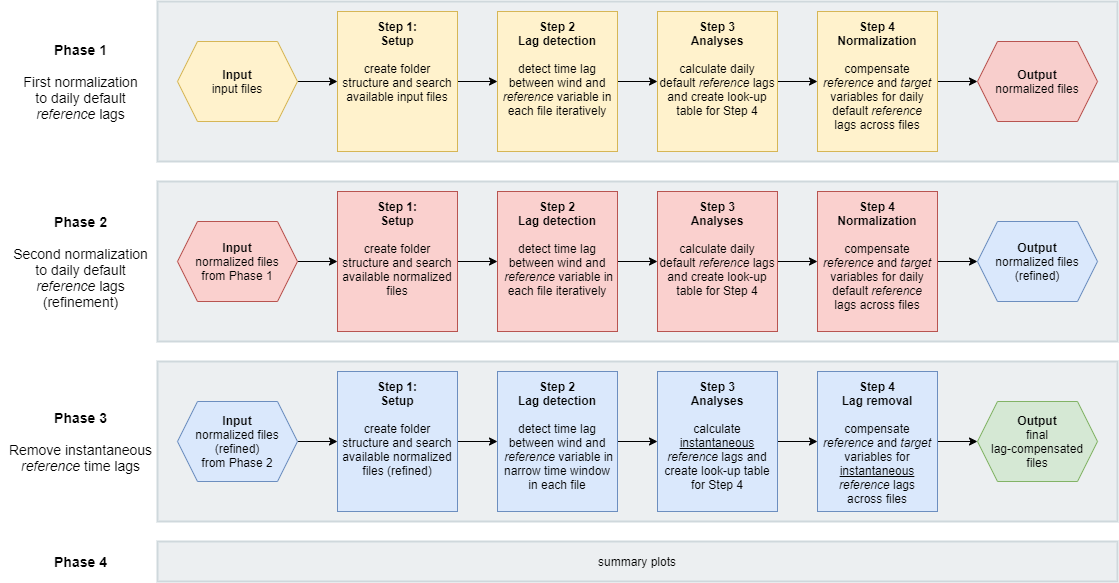
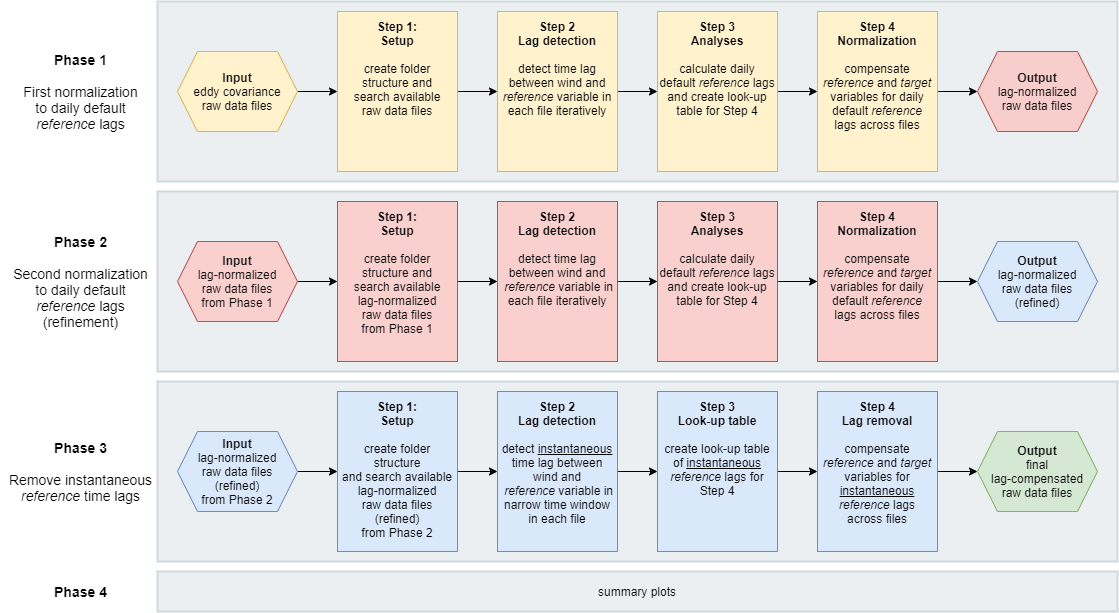
Updated JOSS paper and README descriptions

diff --git a/dyco/dyco.py b/dyco/dyco.py
@@ -485,32 +485,9 @@ def main(args):
                            target_lag=args.targetlag,
                            del_previous_results=args.delprevresults)
 
-    # # Example with full arguments
-    # DynamicLagCompensation(
-    #     var_reference='w_ms-1_rot_turb',  # Reference signal
-    #     var_lagged='co2_ppb_qcl_turb',  # Lagged signal
-    #     var_target=['co2_ppb_qcl_turb', 'n2o_ppb_qcl', 'ch4_ppb_qcl'],  # Target columns
-    #     indir=Path('L:/Dropbox/luhk_work/programming/DYCO_Dynamic_Lag_Compensation/example/input_data'),
-    #     outdir=Path('L:/Dropbox/luhk_work/programming/DYCO_Dynamic_Lag_Compensation/example/output'),
-    #     fnm_date_format='%Y%m%d%H%M%S',  # Date format in filename
-    #     fnm_pattern='2016*.csv',  # Filename pattern for file search, accepts regex
-    #     # dat_recs_timestamp_format='%Y-%m-%d %H:%M:%S.%f',  # Timestamp format for each row record, will be created if False
-    #     dat_recs_nominal_timeres=0.05,  # Nominal (expected) time resolution, one record every x seconds
-    #     files_how_many=False,  # Limit number of files to use
-    #     file_generation_res='30T',  # One file generated every 30 minutes
-    #     file_duration='30T',  # Duration of one data file is 30 minutes
-    #     lgs_num_iter=2,  # Number of lag search iterations in Phase 1 and 2 (Phase 3 is only 1 iteration)
-    #     lgs_winsize=1000,  # Initial window size +/-, given as number of records, used in iteration 1
-    #     lgs_hist_remove_fringe_bins=True,  # Remove fringe bins in histogram of found lag times for winsize adjustments
-    #     lgs_hist_perc_thres=0.9,  # Cumulative % threshold in histogram of found lag times, expand bins around peak
-    #     lgs_segment_dur='30T',  # Segment duration, e.g. calc lag for 10min segments
-    #     del_previous_results=True,  # Danger zone! True deletes all previous output in outdir
-    #     target_lag=0)  # Normalize lag time for *var_target* to target_lag, in records
-
 
 if __name__ == '__main__':
     args = cli.get_args()
     args = cli.validate_args(args)
     # print(args)
     main(args)
-    # main(None)

diff --git a/example/example.py b/example/example.py
@@ -11,24 +11,24 @@ https://github.com/holukas/dyco/wiki/Usage
 
 import os
 
-cli = 'python L:\Dropbox\luhk_work\programming\DYCO_Dynamic_Lag_Compensation\dyco\dyco.py ' \
-      'w_ms-1_rot_turb co2_ppb_qcl_turb ' \
-      'co2_ppb_qcl_turb n2o_ppb_qcl ch4_ppb_qcl ' \
-      '-i L:\Dropbox\luhk_work\programming\DYCO_Dynamic_Lag_Compensation\example\input_data ' \
-      '-o L:\Dropbox\luhk_work\programming\DYCO_Dynamic_Lag_Compensation\example\output ' \
-      '-fnd %Y%m%d%H%M%S ' \
-      '-fnp *.csv ' \
-      '-flim 0 ' \
-      '-fgr 30T ' \
-      '-fdur 30T ' \
-      '-dtf "%Y-%m-%d %H:%M:%S.%f" ' \
-      '-dres 0.05 ' \
-      '-lss 30T ' \
-      '-lsw 1000 ' \
-      '-lsi 3 ' \
-      '-lsf 1 ' \
-      '-lsp 0.9 ' \
-      '-lt 0 ' \
-      '-del 0'
+cli = r'python L:\Dropbox\luhk_work\programming\DYCO_Dynamic_Lag_Compensation\dyco\dyco.py ' \
+      r'w_ms-1_rot_turb co2_ppb_qcl_turb ' \
+      r'co2_ppb_qcl_turb n2o_ppb_qcl ch4_ppb_qcl ' \
+      r'-i A:\FLUXES\CH-DAV\0___ms_CH-DAV_non-CO2\tests_dynamic_lag\JOSS_paper\1_FISP_output\splits ' \
+      r'-o A:\FLUXES\CH-DAV\0___ms_CH-DAV_non-CO2\tests_dynamic_lag\JOSS_paper\2_DYCO_output_2_noTimestampInPhase3 ' \
+      r'-fnd %Y%m%d%H%M%S ' \
+      r'-fnp *.csv ' \
+      r'-flim 0 ' \
+      r'-fgr 30T ' \
+      r'-fdur 30T ' \
+      r'-dtf "%Y-%m-%d %H:%M:%S.%f" ' \
+      r'-dres 0.05 ' \
+      r'-lss 30T ' \
+      r'-lsw 1000 ' \
+      r'-lsi 3 ' \
+      r'-lsf 1 ' \
+      r'-lsp 0.9 ' \
+      r'-lt 0 ' \
+      r'-del 0'
 print(cli)
 os.system(cli)

diff --git a/dyco/correction.py b/dyco/correction.py
@@ -112,10 +112,18 @@ class RemoveLags:
                 data_df = self.shift_var_target(df=data_df,
                                                 shift=shift_correction)
 
-                self.save_dyco_files(outdir=self.outdirs[f'{self.phase}-7_{self.phase_files}_normalized'],
-                                     original_filename=file_info_row['filename'],
-                                     df=data_df,
-                                     export_timestamp=True)
+                if (self.phase == 1) | (self.phase == 2):
+                    # Save timestamp in file
+                    self.save_dyco_files(outdir=self.outdirs[f'{self.phase}-7_{self.phase_files}_normalized'],
+                                         original_filename=file_info_row['filename'],
+                                         df=data_df,
+                                         export_timestamp=True)
+                else:
+                    # No timestamp for final output files
+                    self.save_dyco_files(outdir=self.outdirs[f'{self.phase}-7_{self.phase_files}_normalized'],
+                                         original_filename=file_info_row['filename'],
+                                         df=data_df,
+                                         export_timestamp=False)
 
             time_needed = time.time() - start
             times_needed.append(time_needed)

diff --git a/paper/paper.md b/paper/paper.md
@@ -36,7 +36,7 @@ The lag detection between the turbulent departures of measured wind and the scal
 - (v) the automatic correction of systematic time shifts in *target* raw data time series, e.g. due to failed synchronization of instrument clocks, and
 - (vi) the application of instantaneous *reference* time lags, calculated from lag-normalized files, to one or more *target* compounds.
 
-As `DYCO` aims to complement current flux processing schemes, final lag-removed files are produced that can be directly used in current flux calculation software.
+As `DYCO` aims to complement current flux processing schemes. `DYCO` uses EC raw data files as input and produces final lag-removed files that can be directly used in current flux calculation software. 
 
 
 
@@ -46,31 +46,29 @@ As `DYCO` aims to complement current flux processing schemes, final lag-removed 
 
 **Figure 1.** *The DYCO processing chain.*
 
-The full `DYCO` processing chain comprises four phases and several iterations during which *reference* lags are refined iteratively in progressively smaller search windows (Figure 1). 
+`DYCO` uses eddy covariance raw data files as input and produces lag-compensated raw data files as output.
 
-Generally, the *reference* lag search is facilitated by prior normalization of default (nominal) time lags across files. This is achieved by compensating *reference* and *target* time series data for daily default *reference* lags, calculated from high-quality *reference* lags available around the respective date (Figure 2). Due to this normalization, *reference* lags fall into a specific, pre-defined and therefore known time range, which in turn allows the application of increasingly narrower time windows during lag search. This approach has the advantage that *reference* lags can be calculated from a *reference* signal that shows clear peaks in the cross-covariance analysis with the wind data and thus yields unambiguous time lags due to its high SNR. In case the lag search failed to detect a clear time delay for the *reference* variable (e.g. during the night), the respective daily default *reference* lag is used instead. *Reference* lags can then be used to compensate *target* variables with low SNR for detected *reference* time delays. 
+The full `DYCO` processing chain comprises four phases and several iterations during which *reference* lags are refined iteratively in progressively smaller search windows (Figure 1). Generally, the *reference* lag search is facilitated by prior normalization of default (nominal) time lags across files. This is achieved by compensating *reference* and *target* time series data for daily default *reference* lags, calculated from high-quality *reference* lags available around the respective date (Figure 2). Due to this normalization, *reference* lags fall into a specific, pre-defined and therefore known time range, which in turn allows the application of increasingly narrower time windows during lag search. This approach has the advantage that *reference* lags can be calculated from a *reference* signal that shows clear peaks in the cross-covariance analysis with the wind data and thus yields unambiguous time lags due to its high SNR. In case the lag search failed to detect a clear time delay for the *reference* variable (e.g. during the night), the respective daily default *reference* lag is used instead. *Reference* lags can then be used to compensate *target* variables with low SNR for detected *reference* time delays. 
 
-**Phase 1** uses the original input files and removes the daily default *reference* lag from *reference* and *target* variables, producing lag-normalized files. This is achieved by first calculating the time lag between the turbulent fluctuations of the vertical wind and the turbulent measurements of the *reference* variable (e.g. atmospheric CO<sub>2</sub>) by covariance maximization. The time window for this lag search is iteratively narrowed down (default 3 iterations). Detected time lags are analyzed and daily default *reference* lags are calculated from a selection of high-quality covariance peaks found around the respective date. The *reference* variable and *target* variables are then compensated for found daily default *reference* lags by shifting time series data accordingly. At the same time `DYCO` removes systematic shifts from the data, i.e. after normalization all lags are found in the same time range (Figure 2). Finally, the shifted data are saved to new files.
+**Phase 1** uses eddy covariance raw data files as input and removes the daily default *reference* lag from *reference* and *target* variables, producing lag-normalized raw data files. This is achieved by first calculating the time lag between the turbulent fluctuations of the vertical wind and the turbulent measurements of the *reference* variable (e.g. atmospheric CO<sub>2</sub>) by covariance maximization. The time window for this lag search is iteratively narrowed down (default 3 iterations). Detected time lags are analyzed and daily default *reference* lags are calculated from a selection of high-quality covariance peaks found around the respective date. The *reference* variable and *target* variables are then compensated for found daily default *reference* lags by shifting time series data accordingly. At the same time `DYCO` removes systematic shifts from the data, i.e. after normalization all lags are found in the same time range (Figure 2). Finally, the shifted data are saved to new files.
 
-**Phase 2** comprises the exact same processing steps as Phase 1, with the  difference that instead of the original input files the normalized files produced during Phase 1 are used. In essence, Phase 2 refines *reference* results from Phase 1. Since the *reference* time series data were already compensated for daily default *reference* lags during the previous phase, Phase 2 can apply a much narrower time window during *reference* lag search. 
+**Phase 2** comprises the exact same processing steps as Phase 1, with the  difference that instead of the original eddy covariance raw data files the lag-normalized files produced during Phase 1 are used as input. In essence, Phase 2 refines *reference* results from Phase 1. Since the *reference* time series data were already compensated for daily default *reference* lags during the previous phase, Phase 2 can apply a much narrower time window during *reference* lag search. 
 
-**Phase 3** detects the final instantaneous lags between the turbulent wind and the *reference* variable. Due to the compensation for daily default time lags in preceding Phases, instantaneous lags for each time period are now found close to zero. Therefore, a narrow window of +/- 100 records can be applied for the final lag search. Lags found within the acceptance limit of +/- 50 records are selected as the final instantaneous *reference* lag for the respective time period. For time periods with lags outside the acceptance limits, the final instantaneous *reference* lag is set to zero. Final instantaneous *reference* time lags are then applied to the *target* variables and lag-compensated files are produced.
+**Phase 3** detects the final instantaneous lags between the turbulent wind and the *reference* variable, using the lag-normalized files from Phase 2 as input. Due to the compensation for daily default time lags in preceding Phases, instantaneous lags for each time period are now found close to zero. Therefore, a narrow time window of +/- 100 records is applied for the final lag search. Lags found within the acceptance limit of +/- 50 records are selected as the final instantaneous *reference* lag for the respective time period. For time periods with lags outside the acceptance limits, the final instantaneous *reference* lag is set to zero. Final instantaneous *reference* time lags are then applied to the *target* variables and final lag-compensated files are produced.
 
 **Phase 4** finalizes the processing chain by producing additional plots. 
 
 
 
-![Normalization example](figure.png)
+![Normalization example](fig_PHASE-1_ITERATION-3_TIMESERIES-PLOT_segment_lag_times_iteration-1612269182193.png)
 
-**Figure 2**. *Example showing the normalization of default reference time lags across files. Shown are found instantaneous time lags (red) between turbulent wind data and turbulent CO<sub>2</sub> mixing ratios, calculated daily reference default lags (yellow bars), normalization correction (blue arrows) and the daily default reference lag after normalization (green bar). Negative lag values mean that the CO<sub>2</sub> signal was lagged behind the wind data, e.g. -400 means that the instantaneous CO<sub>2</sub> records arrived 400 records (corresponds to 20s in this example) later at the analyzer than the wind data. Daily default reference lags were calculated as the 3-day median time lag from a selection of high-quality time lags, i.e. when cross-covariance analyses yielded a clear covariance peak. The normalization correction is applied dynamically to shift the CO<sub>2</sub> data so that the default time lag is found close to zero across files. Note the systematic shift in time lags starting after 27 Oct 2016.*
-
-
+**Figure 2**. *Example showing the normalization of default reference time lags across raw data files recorded at the forest site [Davos](https://www.swissfluxnet.ethz.ch/index.php/sites/ch-dav-davos/site-info-ch-dav/) in Switzerland. Shown are found instantaneous time lags (red) between turbulent wind data and turbulent CO<sub>2</sub> mixing ratios, calculated daily reference default lags (yellow bars), normalization correction (blue arrows) and the daily default reference lag after normalization (green bar). Negative lag values mean that the CO<sub>2</sub> signal was lagged behind the wind data, e.g. -400 means that the instantaneous CO<sub>2</sub> records arrived 400 records (corresponds to 20s in this example) later at the analyzer than the wind data. Daily default reference lags were calculated as the 3-day median time lag from a selection of high-quality time lags, i.e. when cross-covariance analyses yielded a clear covariance peak. The normalization correction is applied dynamically to shift the CO<sub>2</sub> data so that the default time lag is found close to zero across files. Note the systematic shift in time lags starting after 27 Oct 2016.*
 
 
 
 # Real-world examples
 
-The [ICOS](https://www.icos-cp.eu/) Class 1 site [Davos](https://www.swissfluxnet.ethz.ch/index.php/sites/ch-dav-davos/site-info-ch-dav/) (CH-Dav), a subalpine forest ecosystem station in the east of Switzerland, provides one of the longest continuous time series (24 years and running) of ecosystem fluxes globally. Since 2016, measurements of the strong GHG N<sub>2</sub>O are recorded by a closed-path gas analyzer that also records CO<sub>2</sub>. To calculate fluxes using the EC method, wind data from the sonic anemometer is combined with instantaneous gas measurements from the gas analyzer. However, the air sampled by the gas analyzer needs a certain amount of time to travel from the tube inlet to the measurement cell in the analyzer and is thus lagged behind the wind signal. The lag between the two signals needs to be compensated for by detecting and then removing the time lag at which the cross-covariance between the turbulent wind and the turbulent gas signal reaches the maximum absolute value. This works generally well when using CO<sub>2</sub> (high SNR) but is challenging for N<sub>2</sub>O (low SNR). Performing the lag detection on wind and N<sub>2</sub>O data yields noisy time lags and the true lag remains unknown. However, since N<sub>2</sub>O has similar adsorption / desorption characteristics as CO<sub>2</sub> it is valid to assume that both compounds need approx. the same time to travel through the tube to the analyzer, i.e. the time lag for both compounds in relation to the wind is similar. Therefore, `DYCO` can be applied (i) to calculate time lags across files for CO<sub>2</sub> (*reference* compound), and then (ii) to remove found CO<sub>2</sub> time delays from the N<sub>2</sub>O signal (*target* compound). After lag compensation, wind records are correctly matched with instantaneous N<sub>2</sub>O records and the ecosystem flux can be calculated more accurately.
+The [ICOS](https://www.icos-cp.eu/) Class 1 site [Davos](https://www.swissfluxnet.ethz.ch/index.php/sites/ch-dav-davos/site-info-ch-dav/) (CH-Dav), a subalpine forest ecosystem station in the east of Switzerland, provides one of the longest continuous time series (24 years and running) of ecosystem fluxes globally. Since 2016, measurements of the strong GHG N<sub>2</sub>O are recorded by a closed-path gas analyzer that also records CO<sub>2</sub>. To calculate fluxes using the EC method, wind data from the sonic anemometer is combined with instantaneous gas measurements from the gas analyzer. However, the air sampled by the gas analyzer needs a certain amount of time to travel from the tube inlet to the measurement cell in the analyzer and is thus lagged behind the wind signal. The lag between the two signals needs to be compensated for by detecting and then removing the time lag at which the cross-covariance between the turbulent wind and the turbulent gas signal reaches the maximum absolute value. This works generally well when using CO<sub>2</sub> (high SNR) but is challenging for N<sub>2</sub>O (low SNR). Using covariance maximization to search for the lag between wind and N<sub>2</sub>O mostly fails to accurately detect time lags between the two variables (noisy cross-correlation function), resulting in relatively noisy fluxes. However, since N<sub>2</sub>O has similar adsorption / desorption characteristics as CO<sub>2</sub> it is valid to assume that both compounds need approx. the same time to travel through the tube to the analyzer, i.e. the time lag for both compounds in relation to the wind is similar. Therefore, `DYCO` can be applied (i) to calculate time lags across files for CO<sub>2</sub> (*reference* compound), and then (ii) to remove found CO<sub>2</sub> time delays from the N<sub>2</sub>O signal (*target* compound). The lag-compensated files produced by `DYCO` can then be used to calculate N<sub>2</sub>O fluxes. Since `DYCO` normalizes time lags across files and compensated the N<sub>2</sub>O signal for instantaneous CO<sub>2</sub> lags, the *true* lag between wind and N<sub>2</sub>O can be found close to zero, which in turn facilitates the application of a small time window for the final lag search during flux calculations. 
 
 Another application example are managed grasslands where the biosphere-atmosphere exchange of N<sub>2</sub>O is often characterized by sporadic high-emission events [e.g., @Hoertnagl2018; @Merbold2014]. While high N<sub>2</sub>O quantities can be emitted during and after management events such as fertilizer application and ploughing, fluxes in between those events typically remain low and often below the limit-of-detection of the applied analyzer. In this case, calculating N<sub>2</sub>O fluxes works well during the high-emission periods (high SNR) but is challenging during the rest of the year (low SNR). Here, `DYCO` can be used to first calculate time lags for a *reference* gas measured in the same analyzer (e.g. CO<sub>2</sub>, CO, CH<sub>4</sub>)  and then remove *reference* time lags from the N<sub>2</sub>O data.
 

diff --git a/README.md b/README.md
@@ -31,9 +31,9 @@ One suggestion to adequately calculate fluxes for compounds with low SNR is to f
 
 **Figure 1.** *The DYCO processing chain.*
 
-The full `DYCO` processing chain comprises four phases and several iterations during which *reference* lags are refined iteratively in progressively smaller search windows (Figure 1). 
+`DYCO` uses eddy covariance raw data files as input and produces lag-compensated raw data files as output.
 
-Generally, the *reference* lag search is facilitated by prior normalization of default (nominal) time lags across files. This is achieved by compensating *reference* and *target* time series data for daily default *reference* lags, calculated from high-quality *reference* lags available around the respective date (Figure 2). Due to this normalization, *reference* lags fall into a specific, pre-defined and therefore known time range, which in turn allows the application of increasingly narrower time windows during lag search. This approach has the advantage that *reference* lags can be calculated from a *reference* signal that shows clear peaks in the cross-covariance analysis with the wind data and thus yields unambiguous time lags due to its high SNR. In case the lag search failed to detect a clear time delay for the *reference* variable (e.g. during the night), the respective daily default *reference* lag is used instead. *Reference* lags can then be used to compensate *target* variables with low SNR for detected *reference* time delays. 
+The full `DYCO` processing chain comprises four phases and several iterations during which *reference* lags are refined iteratively in progressively smaller search windows (Figure 1). Generally, the *reference* lag search is facilitated by prior normalization of default (nominal) time lags across files. This is achieved by compensating *reference* and *target* time series data for daily default *reference* lags, calculated from high-quality *reference* lags available around the respective date (Figure 2). Due to this normalization, *reference* lags fall into a specific, pre-defined and therefore known time range, which in turn allows the application of increasingly narrower time windows during lag search. This approach has the advantage that *reference* lags can be calculated from a *reference* signal that shows clear peaks in the cross-covariance analysis with the wind data and thus yields unambiguous time lags due to its high SNR. In case the lag search failed to detect a clear time delay for the *reference* variable (e.g. during the night), the respective daily default *reference* lag is used instead. *Reference* lags can then be used to compensate *target* variables with low SNR for detected *reference* time delays. 
 
 A description of the different Phases along with output examples can be found in the Wiki: [Processing Chain](https://github.com/holukas/dyco/wiki/Processing-Chain).
 
@@ -77,7 +77,7 @@ Please refer to the [Wiki](https://github.com/holukas/dyco/wiki) for documentati
 
 ## Real-world examples
 
-The [ICOS](https://www.icos-cp.eu/) Class 1 site [Davos](https://www.swissfluxnet.ethz.ch/index.php/sites/ch-dav-davos/site-info-ch-dav/) (CH-Dav), a subalpine forest ecosystem station in the east of Switzerland, provides one of the longest continuous time series (24 years and running) of ecosystem fluxes globally. Since 2016, measurements of the strong GHG N<sub>2</sub>O are recorded by a closed-path gas analyzer that also records CO<sub>2</sub>. To calculate fluxes using the EC method, wind data from the sonic anemometer is combined with instantaneous gas measurements from the gas analyzer. However, the air sampled by the gas analyzer needs a certain amount of time to travel from the tube inlet to the measurement cell in the analyzer and is thus lagged behind the wind signal. The lag between the two signals needs to be compensated for by detecting and then removing the time lag at which the cross-covariance between the turbulent wind and the turbulent gas signal reaches the maximum absolute value. This works generally well when using CO<sub>2</sub> (high SNR) but is challenging for N<sub>2</sub>O (low SNR). Performing the lag detection on wind and N<sub>2</sub>O data yields noisy time lags and the true lag remains unknown. However, since N<sub>2</sub>O has similar adsorption / desorption characteristics as CO<sub>2</sub> it is valid to assume that both compounds need approx. the same time to travel through the tube to the analyzer, i.e. the time lag for both compounds in relation to the wind is similar. Therefore, `DYCO` can be applied (i) to calculate time lags across files for CO<sub>2</sub> (*reference* compound), and then (ii) to remove found CO<sub>2</sub> time delays from the N<sub>2</sub>O signal (*target* compound). After lag compensation, wind records are correctly matched with instantaneous N<sub>2</sub>O records and the ecosystem flux can be calculated more accurately.
+The [ICOS](https://www.icos-cp.eu/) Class 1 site [Davos](https://www.swissfluxnet.ethz.ch/index.php/sites/ch-dav-davos/site-info-ch-dav/) (CH-Dav), a subalpine forest ecosystem station in the east of Switzerland, provides one of the longest continuous time series (24 years and running) of ecosystem fluxes globally. Since 2016, measurements of the strong GHG N<sub>2</sub>O are recorded by a closed-path gas analyzer that also records CO<sub>2</sub>. To calculate fluxes using the EC method, wind data from the sonic anemometer is combined with instantaneous gas measurements from the gas analyzer. However, the air sampled by the gas analyzer needs a certain amount of time to travel from the tube inlet to the measurement cell in the analyzer and is thus lagged behind the wind signal. The lag between the two signals needs to be compensated for by detecting and then removing the time lag at which the cross-covariance between the turbulent wind and the turbulent gas signal reaches the maximum absolute value. This works generally well when using CO<sub>2</sub> (high SNR) but is challenging for N<sub>2</sub>O (low SNR). Using covariance maximization to search for the lag between wind and N<sub>2</sub>O mostly fails to accurately detect time lags between the two variables (noisy cross-correlation function), resulting in relatively noisy fluxes. However, since N<sub>2</sub>O has similar adsorption / desorption characteristics as CO<sub>2</sub> it is valid to assume that both compounds need approx. the same time to travel through the tube to the analyzer, i.e. the time lag for both compounds in relation to the wind is similar. Therefore, `DYCO` can be applied (i) to calculate time lags across files for CO<sub>2</sub> (*reference* compound), and then (ii) to remove found CO<sub>2</sub> time delays from the N<sub>2</sub>O signal (*target* compound). The lag-compensated files produced by `DYCO` can then be used to calculate N<sub>2</sub>O fluxes. Since `DYCO` normalizes time lags across files and compensated the N<sub>2</sub>O signal for instantaneous CO<sub>2</sub> lags, the *true* lag between wind and N<sub>2</sub>O can be found close to zero, which in turn facilitates the application of a small time window for the final lag search during flux calculations. 
 
 Another application example are managed grasslands where the biosphere-atmosphere exchange of N<sub>2</sub>O is often characterized by sporadic high-emission events (e.g., Hörtnagl et al., 2018; Merbold et al., 2014). While high N<sub>2</sub>O quantities can be emitted during and after management events such as fertilizer application and ploughing, fluxes in between those events typically remain low and often below the limit-of-detection of the applied analyzer. In this case, calculating N<sub>2</sub>O fluxes works well during the high-emission periods (high SNR) but is challenging during the rest of the year (low SNR). Here, `DYCO` can be used to first calculate time lags for a *reference* gas measured in the same analyzer (e.g. CO<sub>2</sub>, CO, CH<sub>4</sub>)  and then remove *reference* time lags from the N<sub>2</sub>O data.
 
